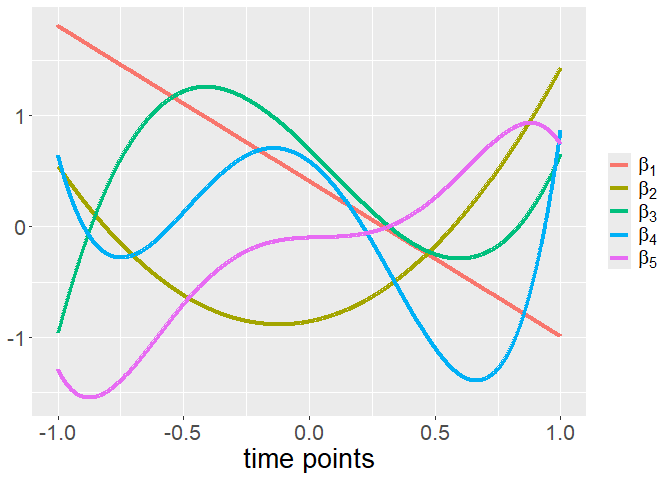
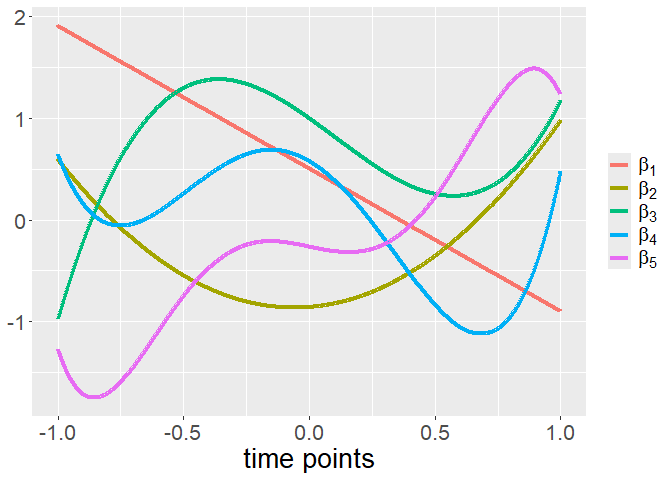
Update

diff --git a/README.md b/README.md
@@ -7,8 +7,9 @@
 
 <!-- badges: end -->
 
-This package selects explanatory variables and polynomial degrees in
-GMANOVA model by hierarchical overlapping group Lasso (HOGL).
+This package selects explanatory variables and degrees of polynomial
+basis functions in GMANOVA model by hierarchical overlapping group Lasso
+(HOGL).
 
 **cite this package of the latest version:**  
 Ohishi, M. (2025). HOGLgmanova: Variable and basis function selections
